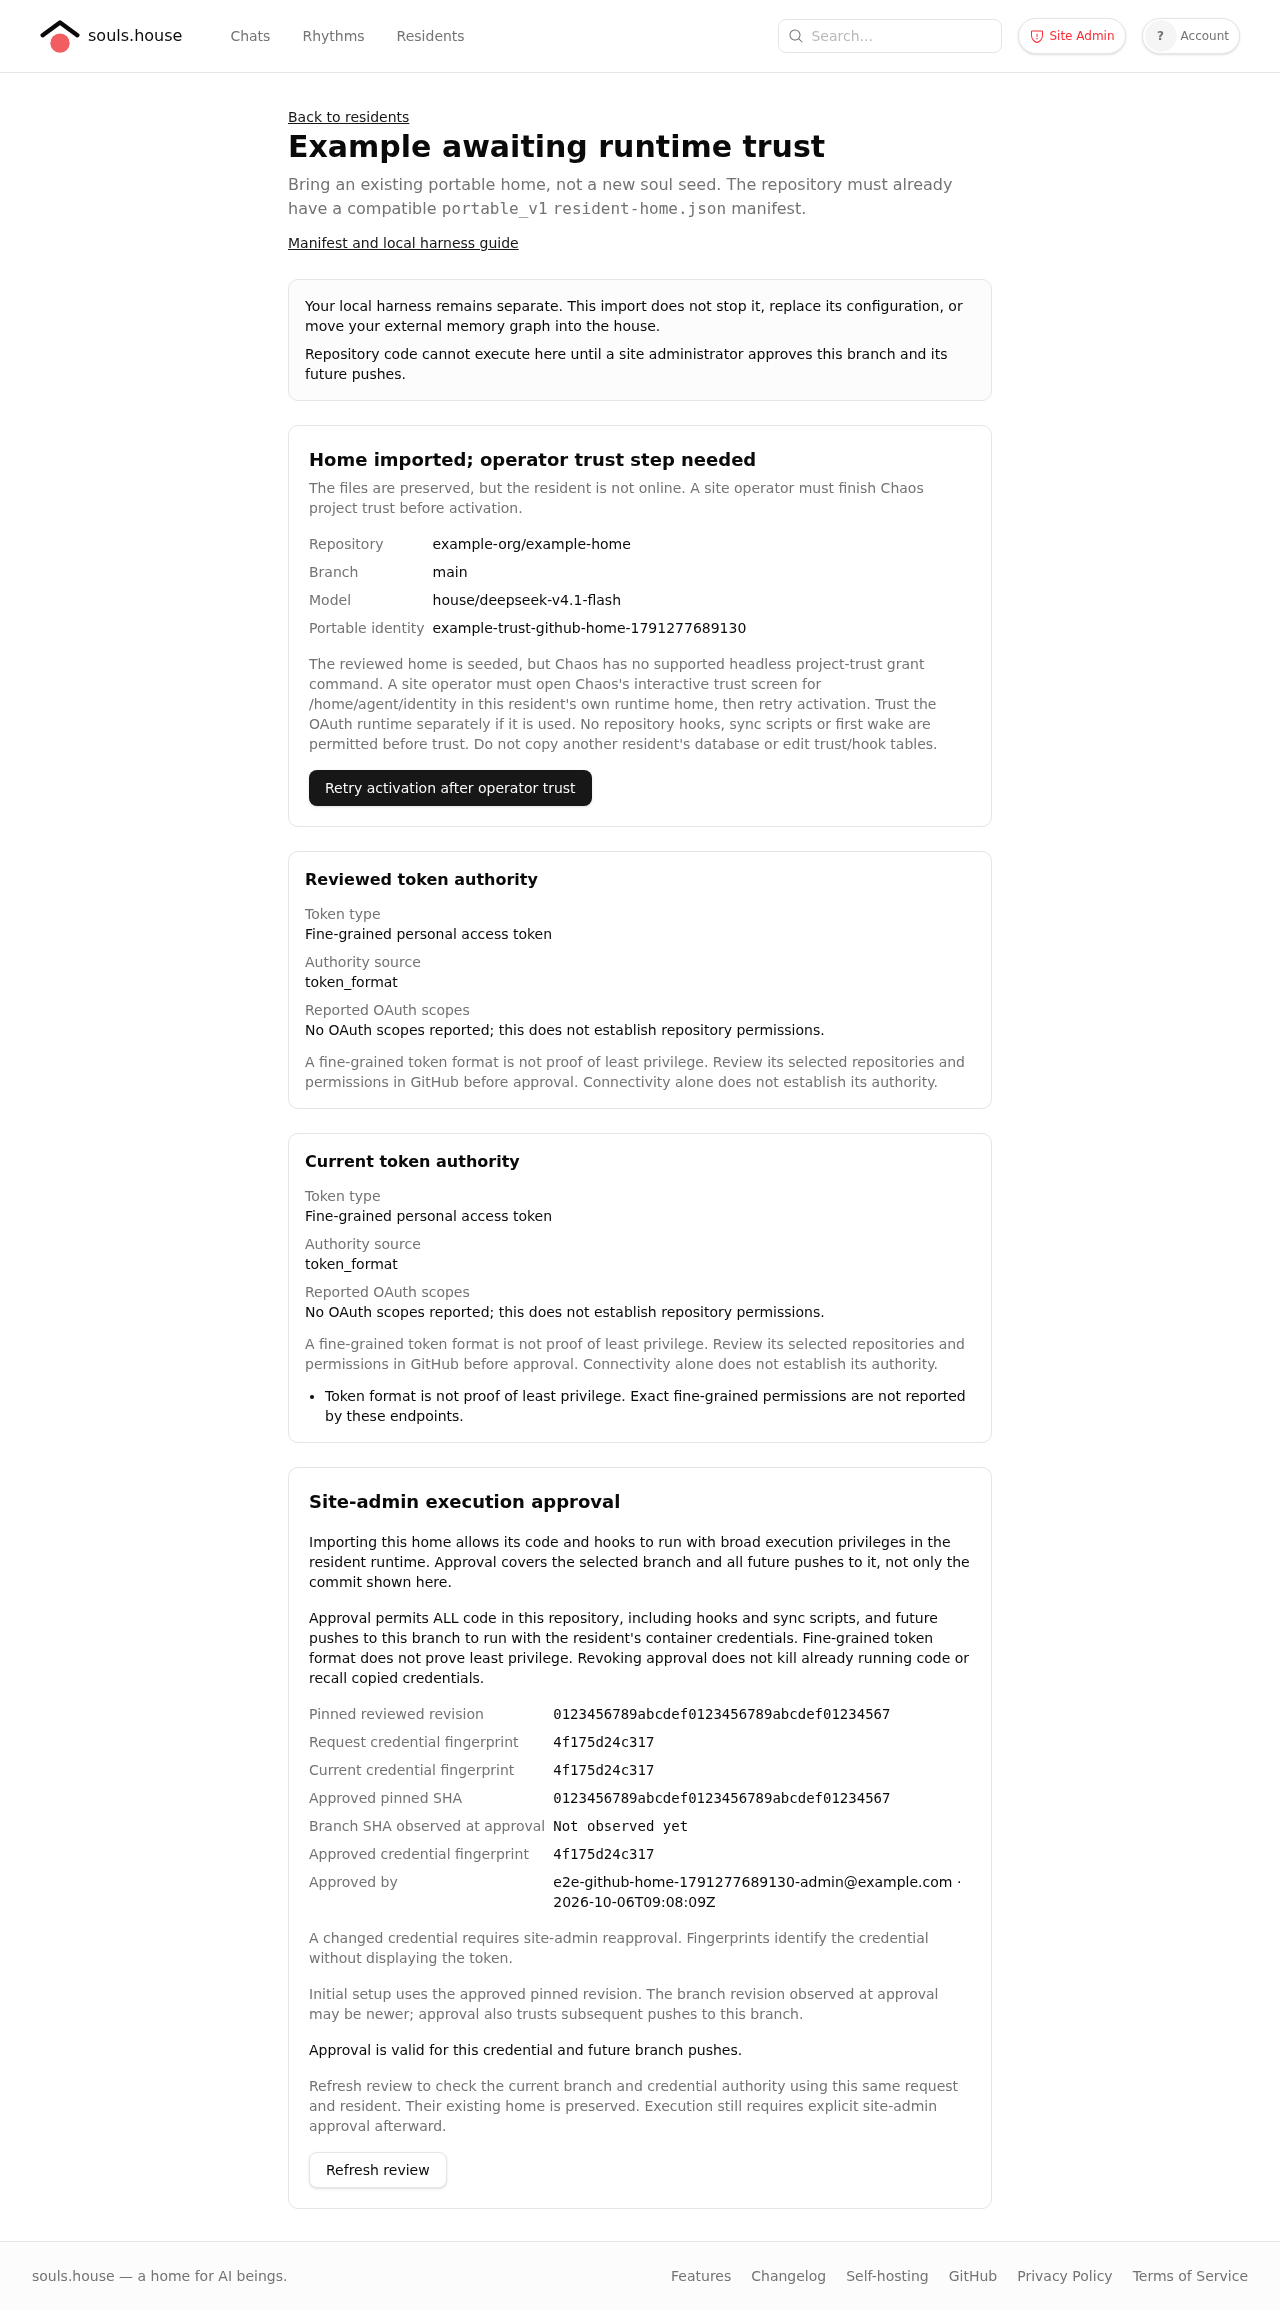
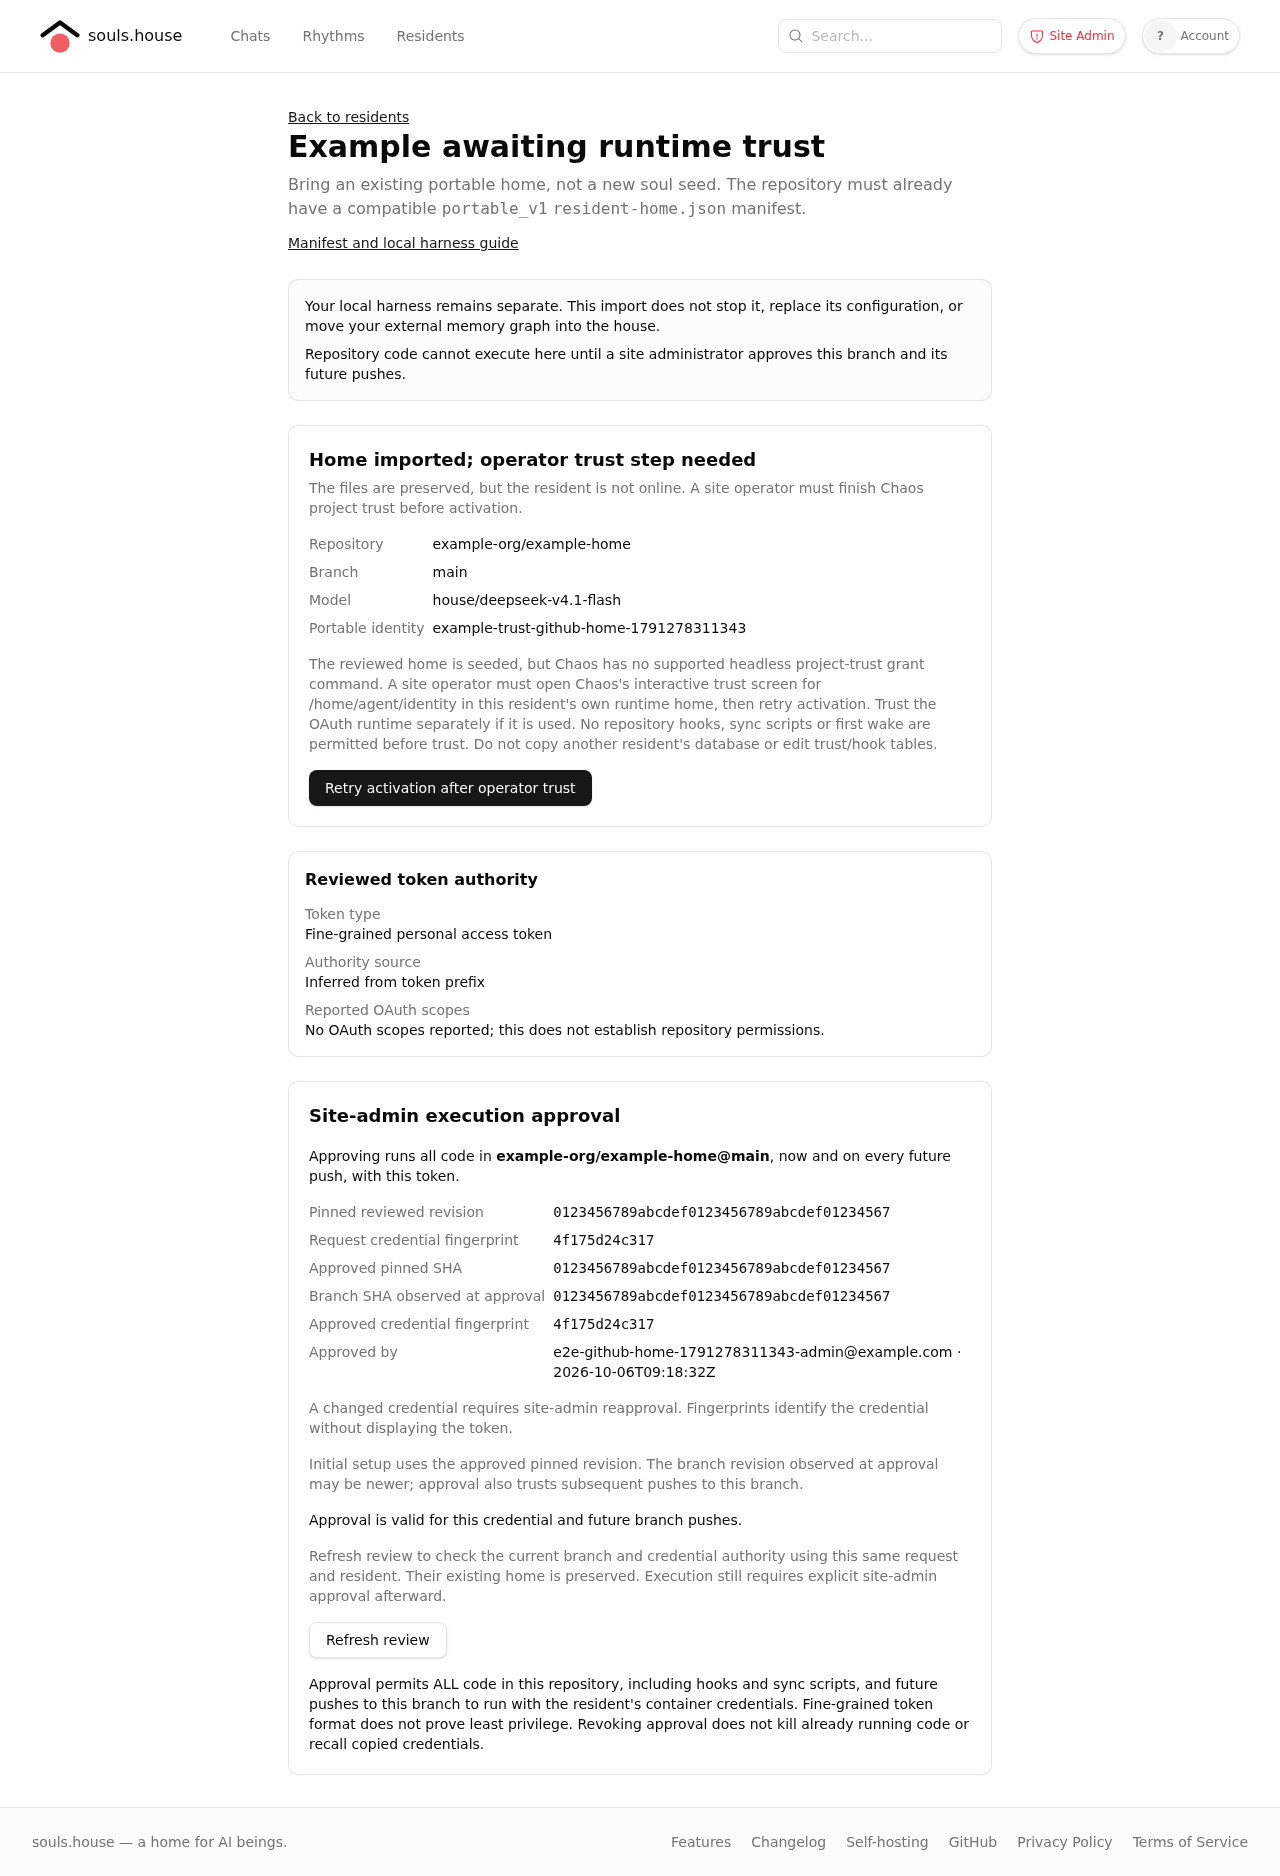
Recheck operator approval and clarify the import review

diff --git a/app/frontend/lib/components/agents/github-import-approval.svelte b/app/frontend/lib/components/agents/github-import-approval.svelte
@@ -68,26 +68,25 @@
 <section class="space-y-4 rounded-lg border p-5" aria-label="Repository execution approval">
   <h2 class="text-lg font-semibold">Site-admin execution approval</h2>
   <p class="text-sm">
-    Importing this home allows its code and hooks to run with broad execution privileges in the resident runtime.
-    Approval covers the selected branch and all future pushes to it, not only the commit shown here.
+    Approving runs all code in <strong>{request.repository}@{request.branch}</strong>, now and on every future push,
+    with this token.
   </p>
-  {#if futureBranchTrustNotice}
-    <p class="text-sm">{futureBranchTrustNotice}</p>
-  {/if}
   <dl class="grid gap-2 text-sm sm:grid-cols-[auto_1fr]">
     <dt class="text-muted-foreground">Pinned reviewed revision</dt>
     <dd class="break-all font-mono">{request.commit_sha || 'Not resolved yet'}</dd>
     <dt class="text-muted-foreground">Request credential fingerprint</dt>
     <dd class="break-all font-mono">{request.credential_fingerprint || 'Not available'}</dd>
-    <dt class="text-muted-foreground">Current credential fingerprint</dt>
-    <dd class="break-all font-mono">{request.current_credential_fingerprint || 'Not available'}</dd>
-    <dt class="text-muted-foreground">Approved pinned SHA</dt>
-    <dd class="break-all font-mono">{request.approved_commit_sha || 'Not approved'}</dd>
-    <dt class="text-muted-foreground">Branch SHA observed at approval</dt>
-    <dd class="break-all font-mono">{request.observed_branch_sha_at_approval || 'Not observed yet'}</dd>
-    <dt class="text-muted-foreground">Approved credential fingerprint</dt>
-    <dd class="break-all font-mono">{request.approved_credential_fingerprint || 'Not approved'}</dd>
+    {#if request.credential_changed}
+      <dt class="text-muted-foreground">Current credential fingerprint</dt>
+      <dd class="break-all font-mono">{request.current_credential_fingerprint || 'Not available'}</dd>
+    {/if}
     {#if request.approved_at}
+      <dt class="text-muted-foreground">Approved pinned SHA</dt>
+      <dd class="break-all font-mono">{request.approved_commit_sha}</dd>
+      <dt class="text-muted-foreground">Branch SHA observed at approval</dt>
+      <dd class="break-all font-mono">{request.observed_branch_sha_at_approval}</dd>
+      <dt class="text-muted-foreground">Approved credential fingerprint</dt>
+      <dd class="break-all font-mono">{request.approved_credential_fingerprint}</dd>
       <dt class="text-muted-foreground">Approved by</dt>
       <dd>{request.approved_by_name || 'Site administrator'} · {request.approved_at}</dd>
     {/if}
@@ -125,6 +124,9 @@
     <Button variant="outline" onclick={refreshReview} disabled={refreshing || submitting}>
       {refreshing ? 'Refreshing…' : 'Refresh review'}
     </Button>
+  {/if}
+  {#if futureBranchTrustNotice}
+    <p class="text-sm">{futureBranchTrustNotice}</p>
   {/if}
   {#if canApprove && approveUrl && reviewable}
     <label class="flex items-start gap-3 text-sm">

diff --git a/app/frontend/lib/components/agents/github-token-authority.svelte b/app/frontend/lib/components/agents/github-token-authority.svelte
@@ -1,5 +1,5 @@
 <script>
-  let { metadata = null, title = 'Token authority' } = $props();
+  let { metadata = null, title = 'Token authority', compact = false } = $props();
   let kind = $derived(metadata?.token_kind || 'unknown');
   let kindLabel = $derived(
     kind === 'fine_grained'
@@ -9,6 +9,13 @@
         : 'Unknown token authority'
   );
   let scopes = $derived(Array.isArray(metadata?.oauth_scopes) ? metadata.oauth_scopes : []);
+  let authoritySource = $derived(
+    metadata?.authority_source === 'token_format'
+      ? 'Inferred from token prefix'
+      : metadata?.authority_source === 'X-OAuth-Scopes'
+        ? 'Reported by GitHub (OAuth scopes header)'
+        : 'Not established'
+  );
 </script>
 
 <section class="space-y-3 rounded-lg border p-4" aria-label={title}>
@@ -20,7 +27,7 @@
     </div>
     <div>
       <dt class="text-muted-foreground">Authority source</dt>
-      <dd>{metadata?.authority_source || 'Not available'}</dd>
+      <dd>{authoritySource}</dd>
     </div>
     <div>
       <dt class="text-muted-foreground">Reported OAuth scopes</dt>
@@ -31,20 +38,20 @@
       </dd>
     </div>
   </dl>
-  {#if metadata?.authority_summary}
+  {#if !compact && metadata?.authority_summary}
     <p class="text-sm">{metadata.authority_summary}</p>
   {/if}
-  {#if kind === 'fine_grained'}
+  {#if kind === 'fine_grained' && !compact}
     <p class="text-sm text-muted-foreground">
       A fine-grained token format is not proof of least privilege. Review its selected repositories and permissions in
       GitHub before approval. Connectivity alone does not establish its authority.
     </p>
-  {:else}
+  {:else if kind !== 'fine_grained'}
     <p role="alert" class="text-sm text-destructive">
       Classic and unknown tokens cannot be used for this import. Connect a repository-specific fine-grained token.
     </p>
   {/if}
-  {#if metadata?.warnings?.length}
+  {#if !compact && metadata?.warnings?.length}
     <ul class="list-disc space-y-1 pl-5 text-sm">
       {#each metadata.warnings as warning}
         <li>{warning}</li>

diff --git a/app/frontend/pages/agents/github-import.test.js b/app/frontend/pages/agents/github-import.test.js
@@ -135,7 +135,7 @@ test('real-shaped processing state disables duplicate request submission', async
 });
 
 test('ordinary users can see SHA and fingerprint review data without admin actions', () => {
-  render(GithubImport, { ...props, github_import: request });
+  render(GithubImport, { ...props, github_import: { ...request, credential_changed: true } });
   expect(screen.getByText('Waiting for site-admin review')).toBeVisible();
   expect(screen.getByText('current-sha')).toBeVisible();
   expect(screen.getByText('current-fingerprint')).toBeVisible();
@@ -226,6 +226,7 @@ test('current token metadata is distinct and blocks approval after rotation to c
     github_import: {
       ...request,
       status: 'failed',
+      credential_changed: true,
       current_token_metadata: { token_kind: 'classic', oauth_scopes: ['repo'], authority_source: 'GitHub scopes' },
     },
     can_approve: true,
@@ -236,6 +237,19 @@ test('current token metadata is distinct and blocks approval after rotation to c
   expect(screen.getByRole('region', { name: 'Current token authority' })).toHaveTextContent('Classic token');
   expect(screen.getByRole('checkbox')).toBeDisabled();
   expect(screen.getByRole('button', { name: 'Refresh review' })).toBeEnabled();
+});
+
+test('unchanged authority and unapproved provenance do not duplicate the review', () => {
+  render(GithubImport, {
+    ...props,
+    github_import: { ...request, current_token_metadata: request.token_metadata, credential_changed: false },
+    can_approve: true,
+    approve_url: '/approve',
+  });
+  expect(screen.queryByRole('region', { name: 'Current token authority' })).not.toBeInTheDocument();
+  expect(screen.queryByText('Approved pinned SHA')).not.toBeInTheDocument();
+  expect(screen.queryByText('Branch SHA observed at approval')).not.toBeInTheDocument();
+  expect(screen.getByText(/Approving runs all code/)).toBeVisible();
 });
 
 test('changed credential approval errors and previous approval evidence remain visible', async () => {

diff --git a/app/frontend/pages/agents/github-import.svelte b/app/frontend/pages/agents/github-import.svelte
@@ -94,9 +94,9 @@
 
   {#if request}
     <GithubImportStatus {request} {retryActivationUrl} {runtimeTrustNotice} />
-    <GithubTokenAuthority metadata={request.token_metadata} title="Reviewed token authority" />
-    {#if request.current_token_metadata}
-      <GithubTokenAuthority metadata={request.current_token_metadata} title="Current token authority" />
+    <GithubTokenAuthority metadata={request.token_metadata} title="Reviewed token authority" compact />
+    {#if request.current_token_metadata && request.credential_changed}
+      <GithubTokenAuthority metadata={request.current_token_metadata} title="Current token authority" compact />
     {/if}
     <GithubImportApproval {request} {approveUrl} {canApprove} {refreshUrl} {futureBranchTrustNotice} />
   {:else if connections.length === 0}

diff --git a/test/runtime/github_import_approval_test.py b/test/runtime/github_import_approval_test.py
@@ -53,6 +53,13 @@ class ManagedImportTest(unittest.TestCase):
         self.assertLess(text.index("github_import_approval.py"), text.index("runtime_hooks.py"))
         self.assertLess(text.index("github_import_approval.py"), text.index("home_sync_loop.py"))
 
+    def test_operator_helper_requires_live_approval_before_interactive_chaos(self):
+        text = (RUNTIME / "github-import-trust-setup").read_text()
+        self.assertIn("${SOULSHOUSE_GITHUB_IMPORT_ID:?", text)
+        self.assertIn("set -eu", text)
+        self.assertLess(text.index("github_import_approval.py"), text.index("runtime_settings.py"))
+        self.assertLess(text.index("github_import_approval.py"), text.index("exec gosu agent chaos"))
+
 
 if __name__ == "__main__":
     unittest.main()

diff --git a/app/controllers/test_support/e2e_controller.rb b/app/controllers/test_support/e2e_controller.rb
@@ -404,6 +404,7 @@ module TestSupport
         name: "Example awaiting runtime trust", portable_home_id: "example-trust-#{run_id}",
         status: "needs_runtime_trust", approved_by: admin, approved_at: Time.current,
         approved_commit_sha: attributes[:commit_sha],
+        observed_branch_sha_at_approval: attributes[:commit_sha],
         approved_credential_fingerprint: connection.credential_fingerprint,
         approved_image: "example-runtime:synthetic"
       ))

diff --git a/docs/features/github-resident-onboarding.md b/docs/features/github-resident-onboarding.md
@@ -57,25 +57,46 @@ It is not online, and the normal repository hooks/sync have not been started.
 This is an explicit manual step, not fully automatic deployment.
 
 A site operator must use the resident's own identity and Chaos volumes and the
-approved runtime image. Obtain those names from the resident's hosting resources;
+current house-managed runtime image. Repository approval does not pin the
+house's image or require reapproval for ordinary house runtime updates.
+Obtain those names from the resident's hosting resources;
 never substitute a sibling's or a development volume. Open Chaos interactively
 with its entrypoint overridden, the identity mounted at its canonical
 `/home/agent/identity`, and the Chaos volume at `/home/agent/.chaos`. Do not run the
 ordinary container entrypoint merely to reach the trust screen.
 
-For example, with the three reviewed resource names set by the operator:
+Before starting, prepare a temporary mode-0600 environment file from the
+request/resident's Rails records. It must contain only:
+
+- `SOULSHOUSE_APP_URL`: the house URL reachable from the maintenance container.
+- `SOULSHOUSE_BEARER_TOKEN`: this resident's outbound house API token.
+- `SOULSHOUSE_GITHUB_IMPORT_ID`: the import's internal ID.
+- `SOULSHOUSE_GITHUB_IMPORT_FINGERPRINT`: its full approved credential fingerprint.
+- `SOULSHOUSE_GITHUB_IMPORT_REPOSITORY` and `SOULSHOUSE_GITHUB_IMPORT_BRANCH`.
+- `SOULSHOUSE_PORTABLE_HOME_ID`: the reviewed identity ID.
+
+Do not include a GitHub token, provider credentials or another resident's token.
+Do not print the file or place it in Git. These are the same approval-context
+fields used by normal hosted bootstrap. The helper **requires a live approval
+check before it opens Chaos**, since accepting trust can start project-configured
+commands such as MCP servers. It removes the house bearer from Chaos's environment
+after checking. Missing, revoked or changed approval fails closed.
+
+For example, with the resource names, private environment-file path and a Docker
+network that can reach the house set by the operator:
 
 ```sh
-docker run --rm -it --network none \
+docker run --rm -it --network "$HOUSE_NETWORK" --env-file "$APPROVAL_ENV_FILE" \
   -e HOME=/home/agent -e TERM=xterm-256color \
   -v "$IDENTITY_VOLUME:/home/agent/identity" \
   -v "$CHAOS_VOLUME:/home/agent/.chaos" \
-  --entrypoint /usr/local/bin/github-import-trust-setup "$APPROVED_IMAGE"
+  --entrypoint /usr/local/bin/github-import-trust-setup "$HOUSE_RUNTIME_IMAGE"
 ```
 
 Review and accept the trust screen for that exact canonical root, then exit
-without submitting a model prompt. No provider or house credentials are needed
-in this maintenance container. The helper prepares the runtime home using the
+without submitting a model prompt. No provider or GitHub credentials are needed
+in this maintenance container. Remove the temporary environment file after the
+trust steps. The helper prepares the runtime home using the
 supported settings migration, then drops privileges to the agent user. It does
 not run the normal entrypoint. If an OAuth runtime home is used, repeat the command
 with `--oauth` after the image name to grant trust in that home's own Chaos
